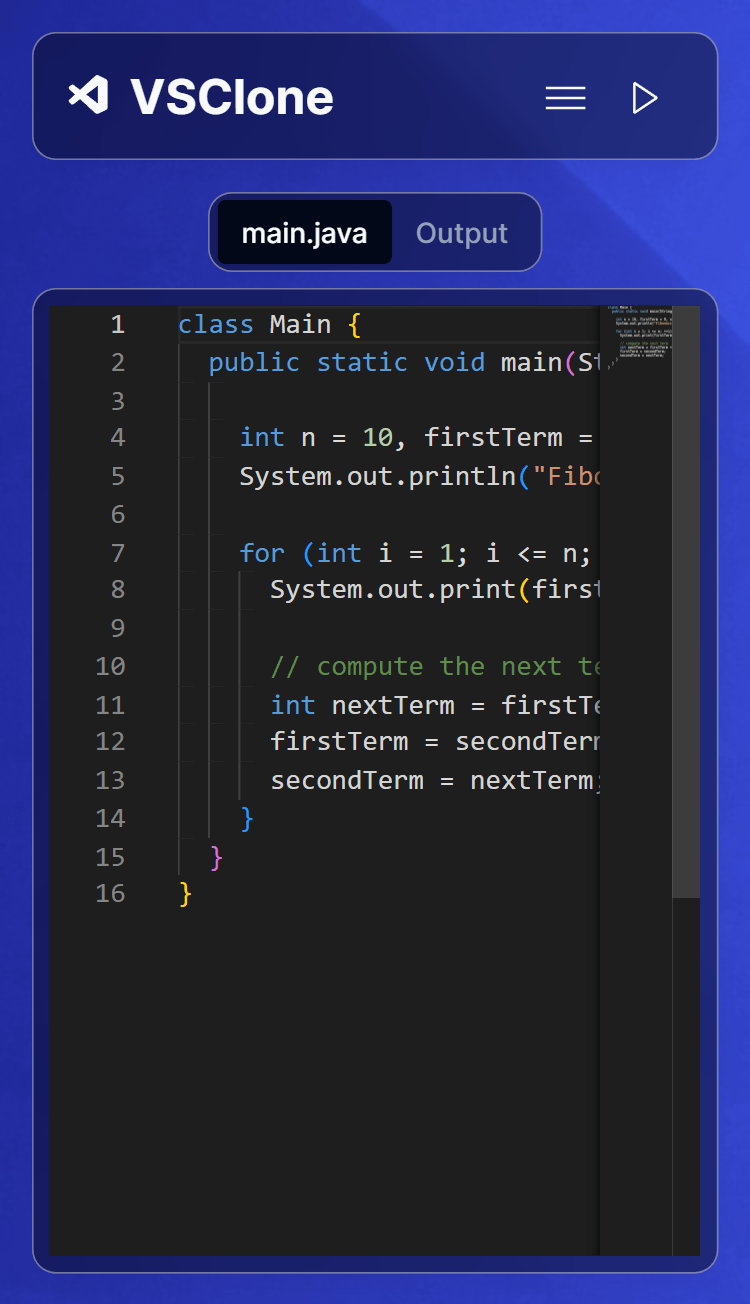
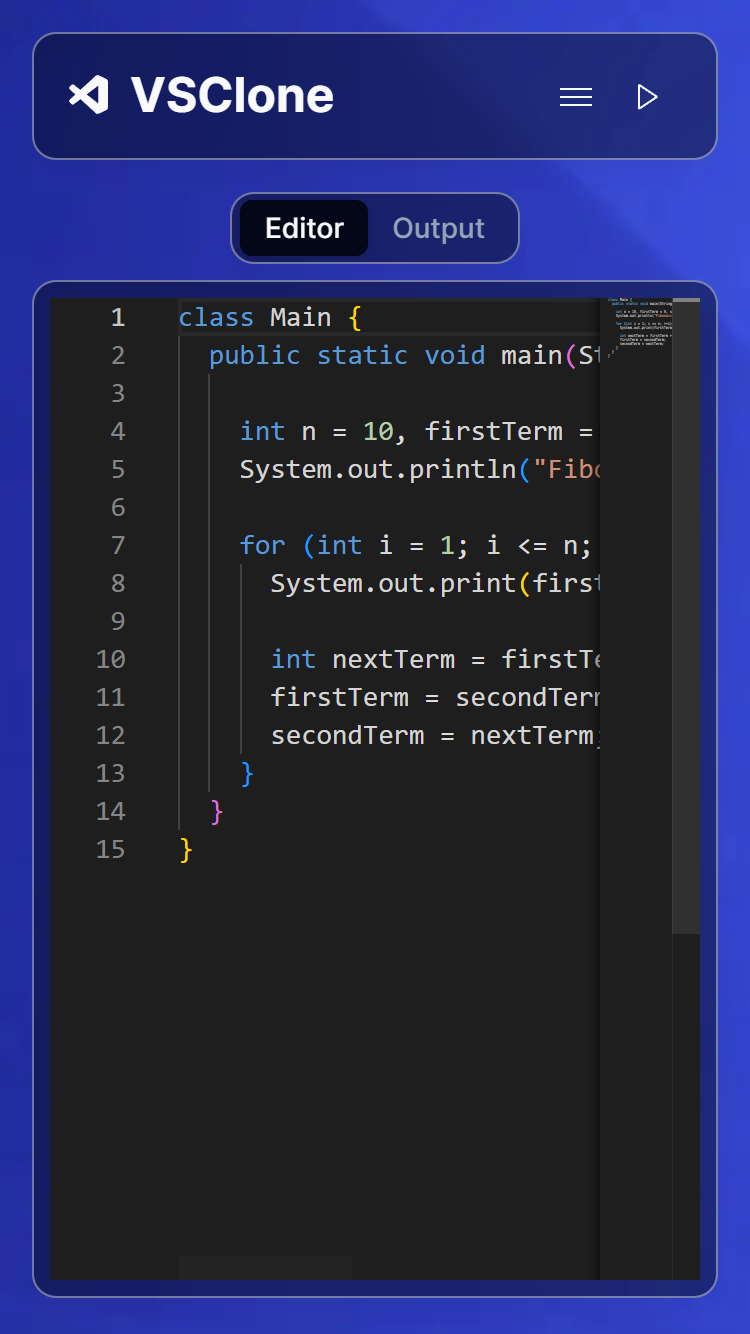
docs: update readme
Renew application screenshots and update the README.md file.

diff --git a/README.md b/README.md
@@ -1,59 +1,91 @@
 # VSClone
 
-![General preview ](/public/assets/img/readme/desktop_preview.png)
+![General preview](/public/assets/img/readme/desktop_preview.png)
 
-## Overview
+## 📄 Overview
 
-This project is a web-based code editor that supports multiple programming languages and includes features like code compilation, file import/export, terminal management, and more. Built using Next.js, TypeScript, Tailwind, shadcn, and Recoil, this editor provides a versatile and responsive coding environment.
+VSClone is a web-based code editor supporting multiple programming languages, featuring code compilation, file import/export, terminal management, and more. Built with **Next.js**, **TypeScript**, **Tailwind CSS**, **shadcn**, and **Zustand**, it offers a versatile and responsive coding environment.
 
-## Tech Stack
+---
 
--   **Next.js**: A React framework for server-rendered applications.
--   **TypeScript**: A typed superset of JavaScript.
--   **Tailwind CSS**: A utility-first CSS framework for rapid UI development.
--   **shadcn**: A UI library for React components.
--   **Zustand**: A state management library for React.
+## 🛠 Tech Stack
 
-## Features
+- **Next.js** — Server-rendered React framework.
+- **TypeScript** — Strongly typed JavaScript.
+- **Tailwind CSS** — Utility-first CSS for fast UI development.
+- **shadcn** — UI library for React components.
+- **Zustand** — Lightweight state management.
 
--   **Supported Languages**: The editor supports the following languages:
-    -   JavaScript
-    -   TypeScript
-    -   Python
-    -   Java
-    -   C#
-    -   PHP
-    -   C++
--   **Code Compilation**: Compile code in the supported languages directly in the editor.
--   **File Import/Export**: Easily import and export files for coding and project management.
--   **Terminal Management**: Hide, show, and reposition the output terminal as needed.
--   **Responsive Design**: Optimized for both desktop and mobile layouts.
+---
 
-## Mobile Layout
+## 🚀 Features
 
-The web code editor is fully responsive and designed to work seamlessly on mobile devices. The mobile layout includes:
+- **Supported Languages:**
+  - JavaScript
+  - TypeScript
+  - Python
+  - Java
+  - C#
+  - PHP
+  - C++
 
--   **Compact Editor**: A streamlined interface for editing code on smaller screens.
--   **Collapsible Menus**: Menus and options that can be collapsed to maximize screen space for coding.
--   **Switchable Tabs**: Users can switch between the editor and output tabs for better usability on mobile devices.
+- **Code Compilation:** Compile supported languages directly in the editor.
+- **File Import/Export:** Seamless file handling for projects.
+- **Terminal Management:** Show, hide, and reposition the terminal.
+- **Responsive Design:** Optimized for desktop and mobile.
 
-### Mobile Layout Screenshots
+---
 
-<div style="display: flex; flex-direction: row; gap: 1rem; justify-content: space-between; flex-wrap: wrap">
+## 🖥 Desktop Menu
+
+VSClone's desktop interface includes two simple yet essential menus:
+
+- **File Menu:** Options for file import and export.
+- **Settings Menu:** Controls to show/hide the terminal and adjust its position.
+
+### 📷 Desktop Menu Previews
+
+<div style="display: flex; flex-direction: row; gap: 1rem; justify-content: center; flex-wrap: wrap;">
   <div>
-    <img src="/public/assets/img/readme/mobile_preview_editor.png" width="250" alt="Mobile Preview - Editor" />
-    <p style="text-align: center;">Mobile Preview - Editor</p>
+    <img src="/public/assets/img/readme/desktop_preview_file_menu.png" width="200" alt="Desktop Preview - File Menu" />
+    <p style="text-align: center;"><em>Desktop File Menu</em></p>
   </div>
   <div>
-    <img src="/public/assets/img/readme/mobile_preview_output.png" width="250" alt="Mobile Preview - Output" />
-    <p style="text-align: center;">Mobile Preview - Output</p>
-  </div>
-  <div>
-    <img src="/public/assets/img/readme/mobile_preview_menu_settings.png" width="250" alt="Mobile Preview - Menu Settings" />
-    <p style="text-align: center;">Mobile Preview - Menu Settings</p>
-  </div>
-  <div>
-    <img src="/public/assets/img/readme/mobile_preview_menu_language_selection.png" width="250" alt="Mobile Preview - Menu Language Selection" />
-    <p style="text-align: center;">Mobile Preview - Language Selection Menu </p>
+    <img src="/public/assets/img/readme/desktop_preview_settings_menu.png" width="200" alt="Desktop Preview - Settings Menu" />
+    <p style="text-align: center;"><em>Desktop Settings Menu</em></p>
   </div>
 </div>
+
+---
+
+## 📱 Mobile Layout
+
+VSClone is fully responsive, designed to function smoothly on mobile devices.
+
+- **Compact Editor:** Optimized UI for smaller screens.
+- **Collapsible Menus:** Maximize screen space for code editing.
+- **Switchable Tabs:** Toggle between editor and output for better usability.
+
+### 📷 Mobile Layout Previews
+
+<div style="display: flex; flex-direction: row; gap: 1rem; justify-content: center; flex-wrap: wrap;">
+  <div>
+    <img src="/public/assets/img/readme/mobile_preview_editor.png" width="200" alt="Mobile Preview - Editor" />
+    <p style="text-align: center;"><em>Editor View</em></p>
+  </div>
+  <div>
+    <img src="/public/assets/img/readme/mobile_preview_output.png" width="200" alt="Mobile Preview - Output" />
+    <p style="text-align: center;"><em>Output View</em></p>
+  </div>
+  <div>
+    <img src="/public/assets/img/readme/mobile_preview_menu_settings.png" width="200" alt="Menu Settings" />
+    <p style="text-align: center;"><em>Menu Settings</em></p>
+  </div>
+  <div>
+    <img src="/public/assets/img/readme/mobile_preview_menu_language_selection.png" width="200" alt="Language Selection Menu" />
+    <p style="text-align: center;"><em>Language Selection</em></p>
+  </div>
+</div>
+
+
+
